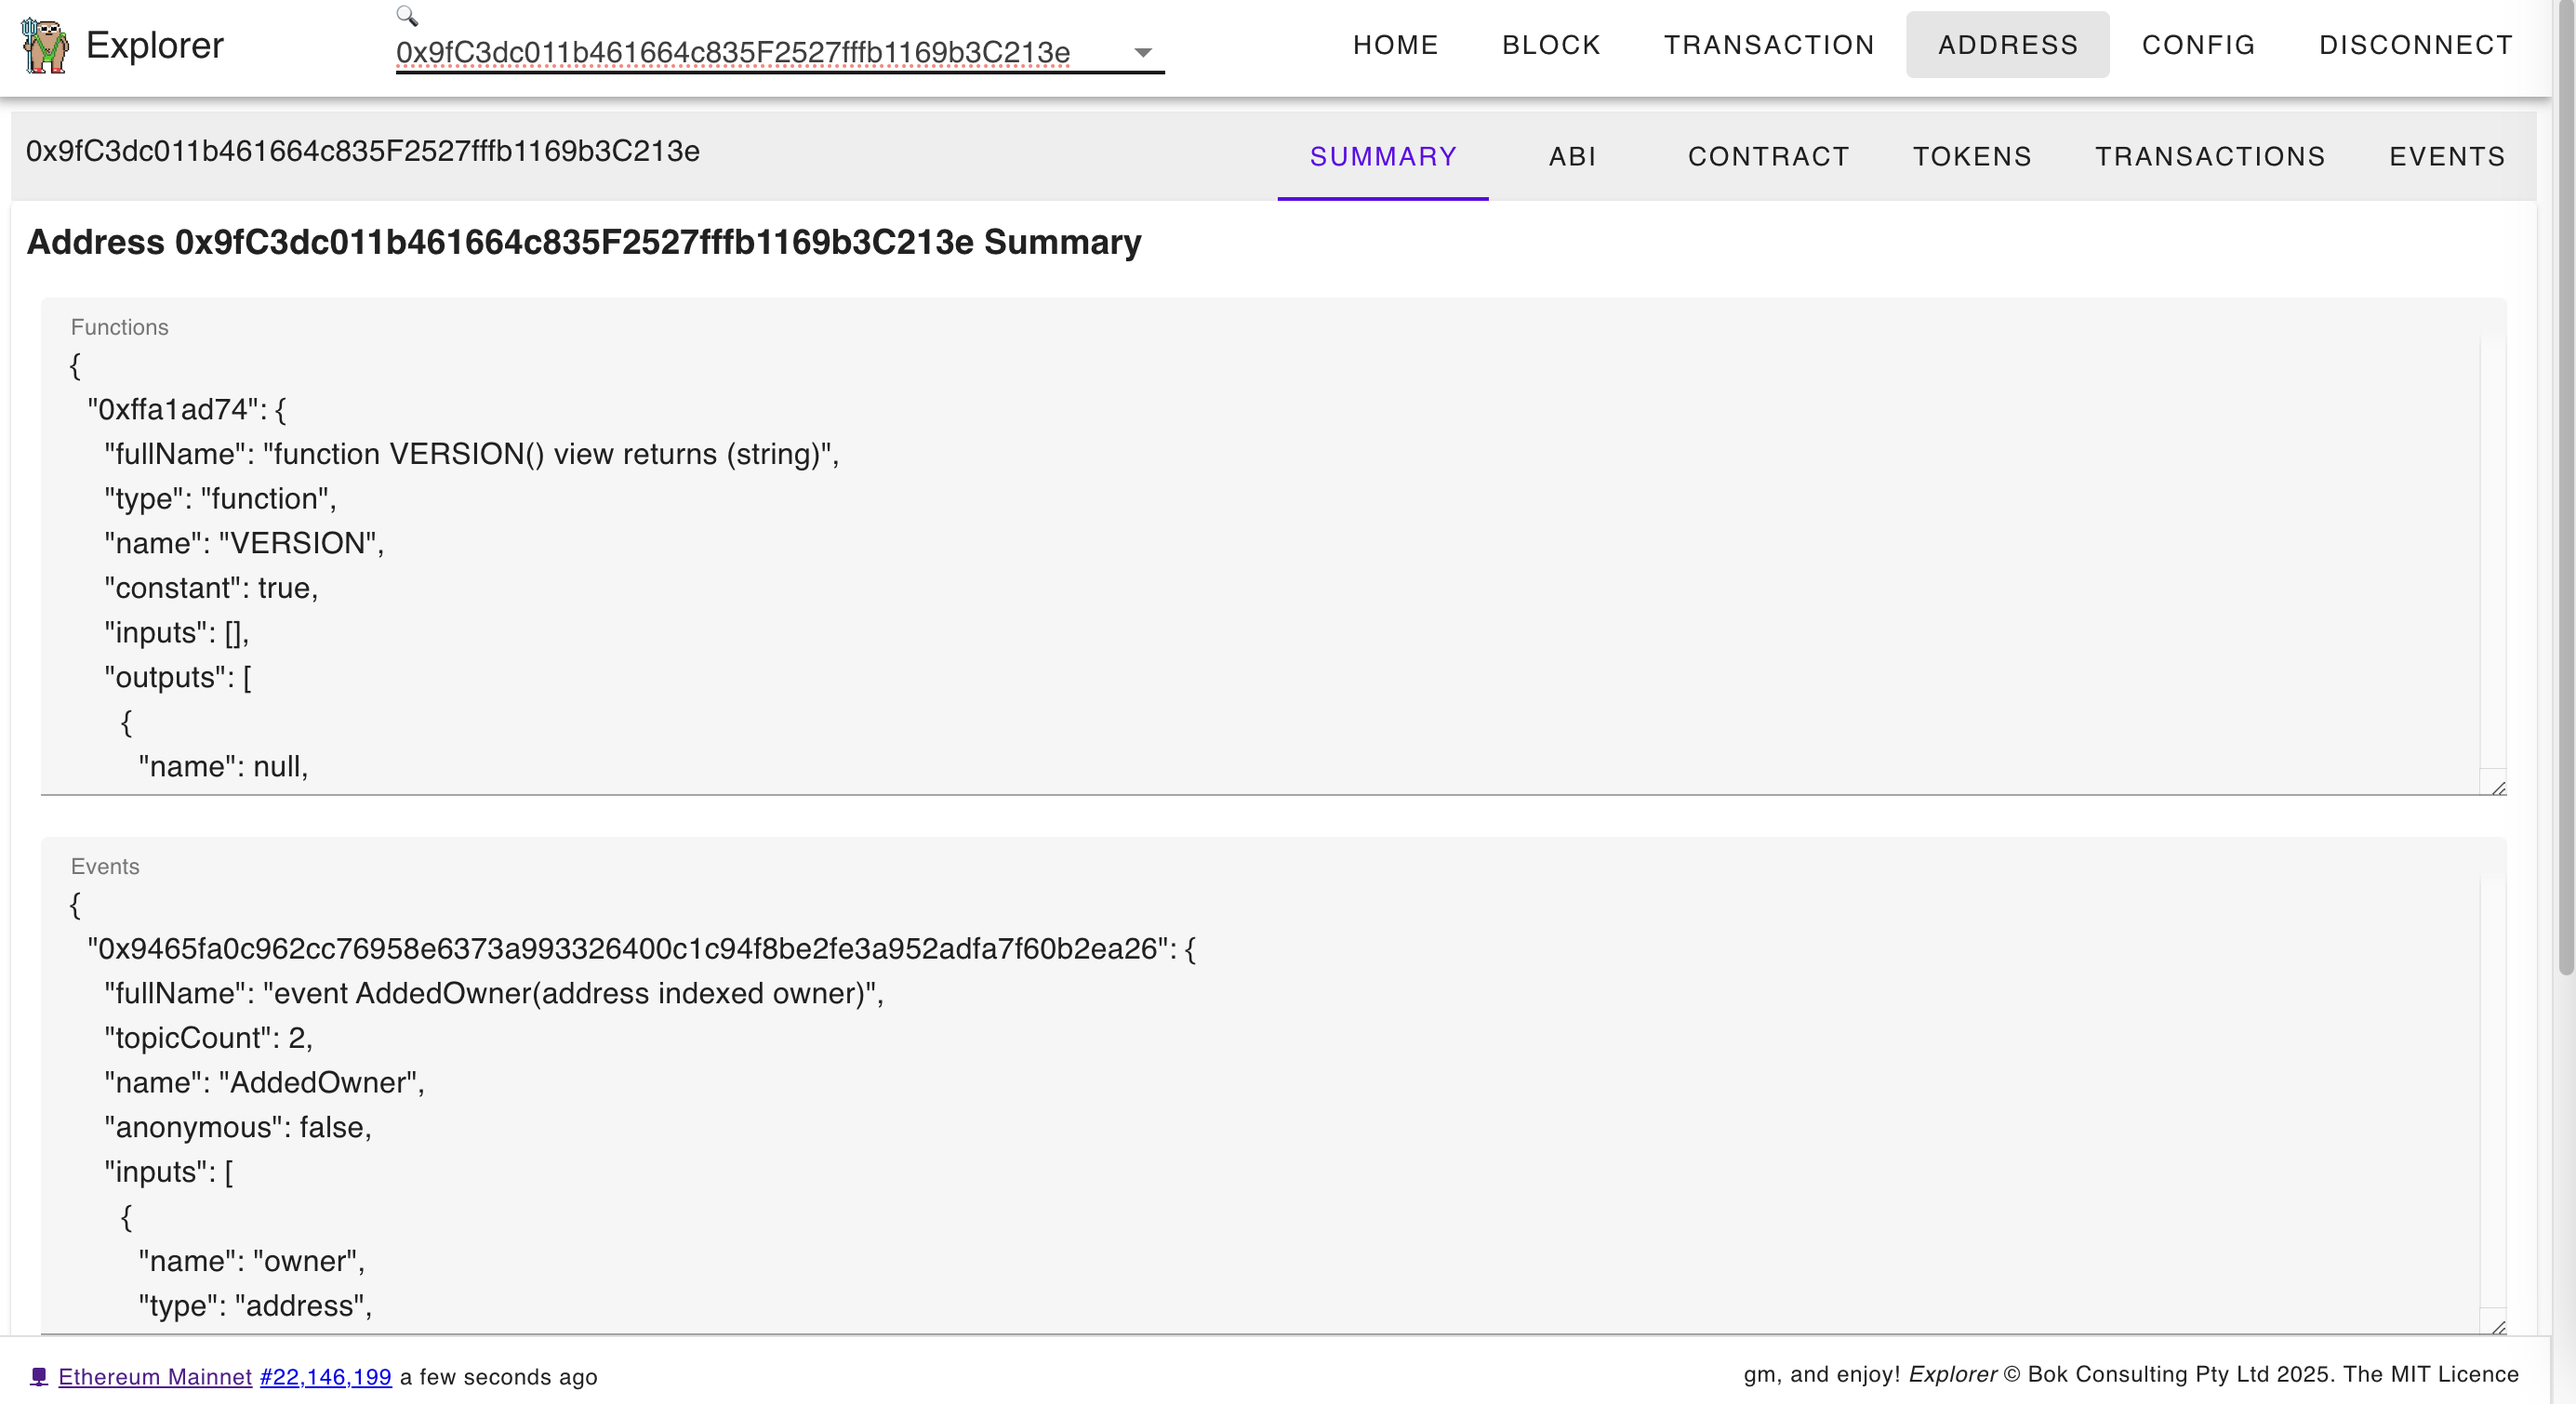
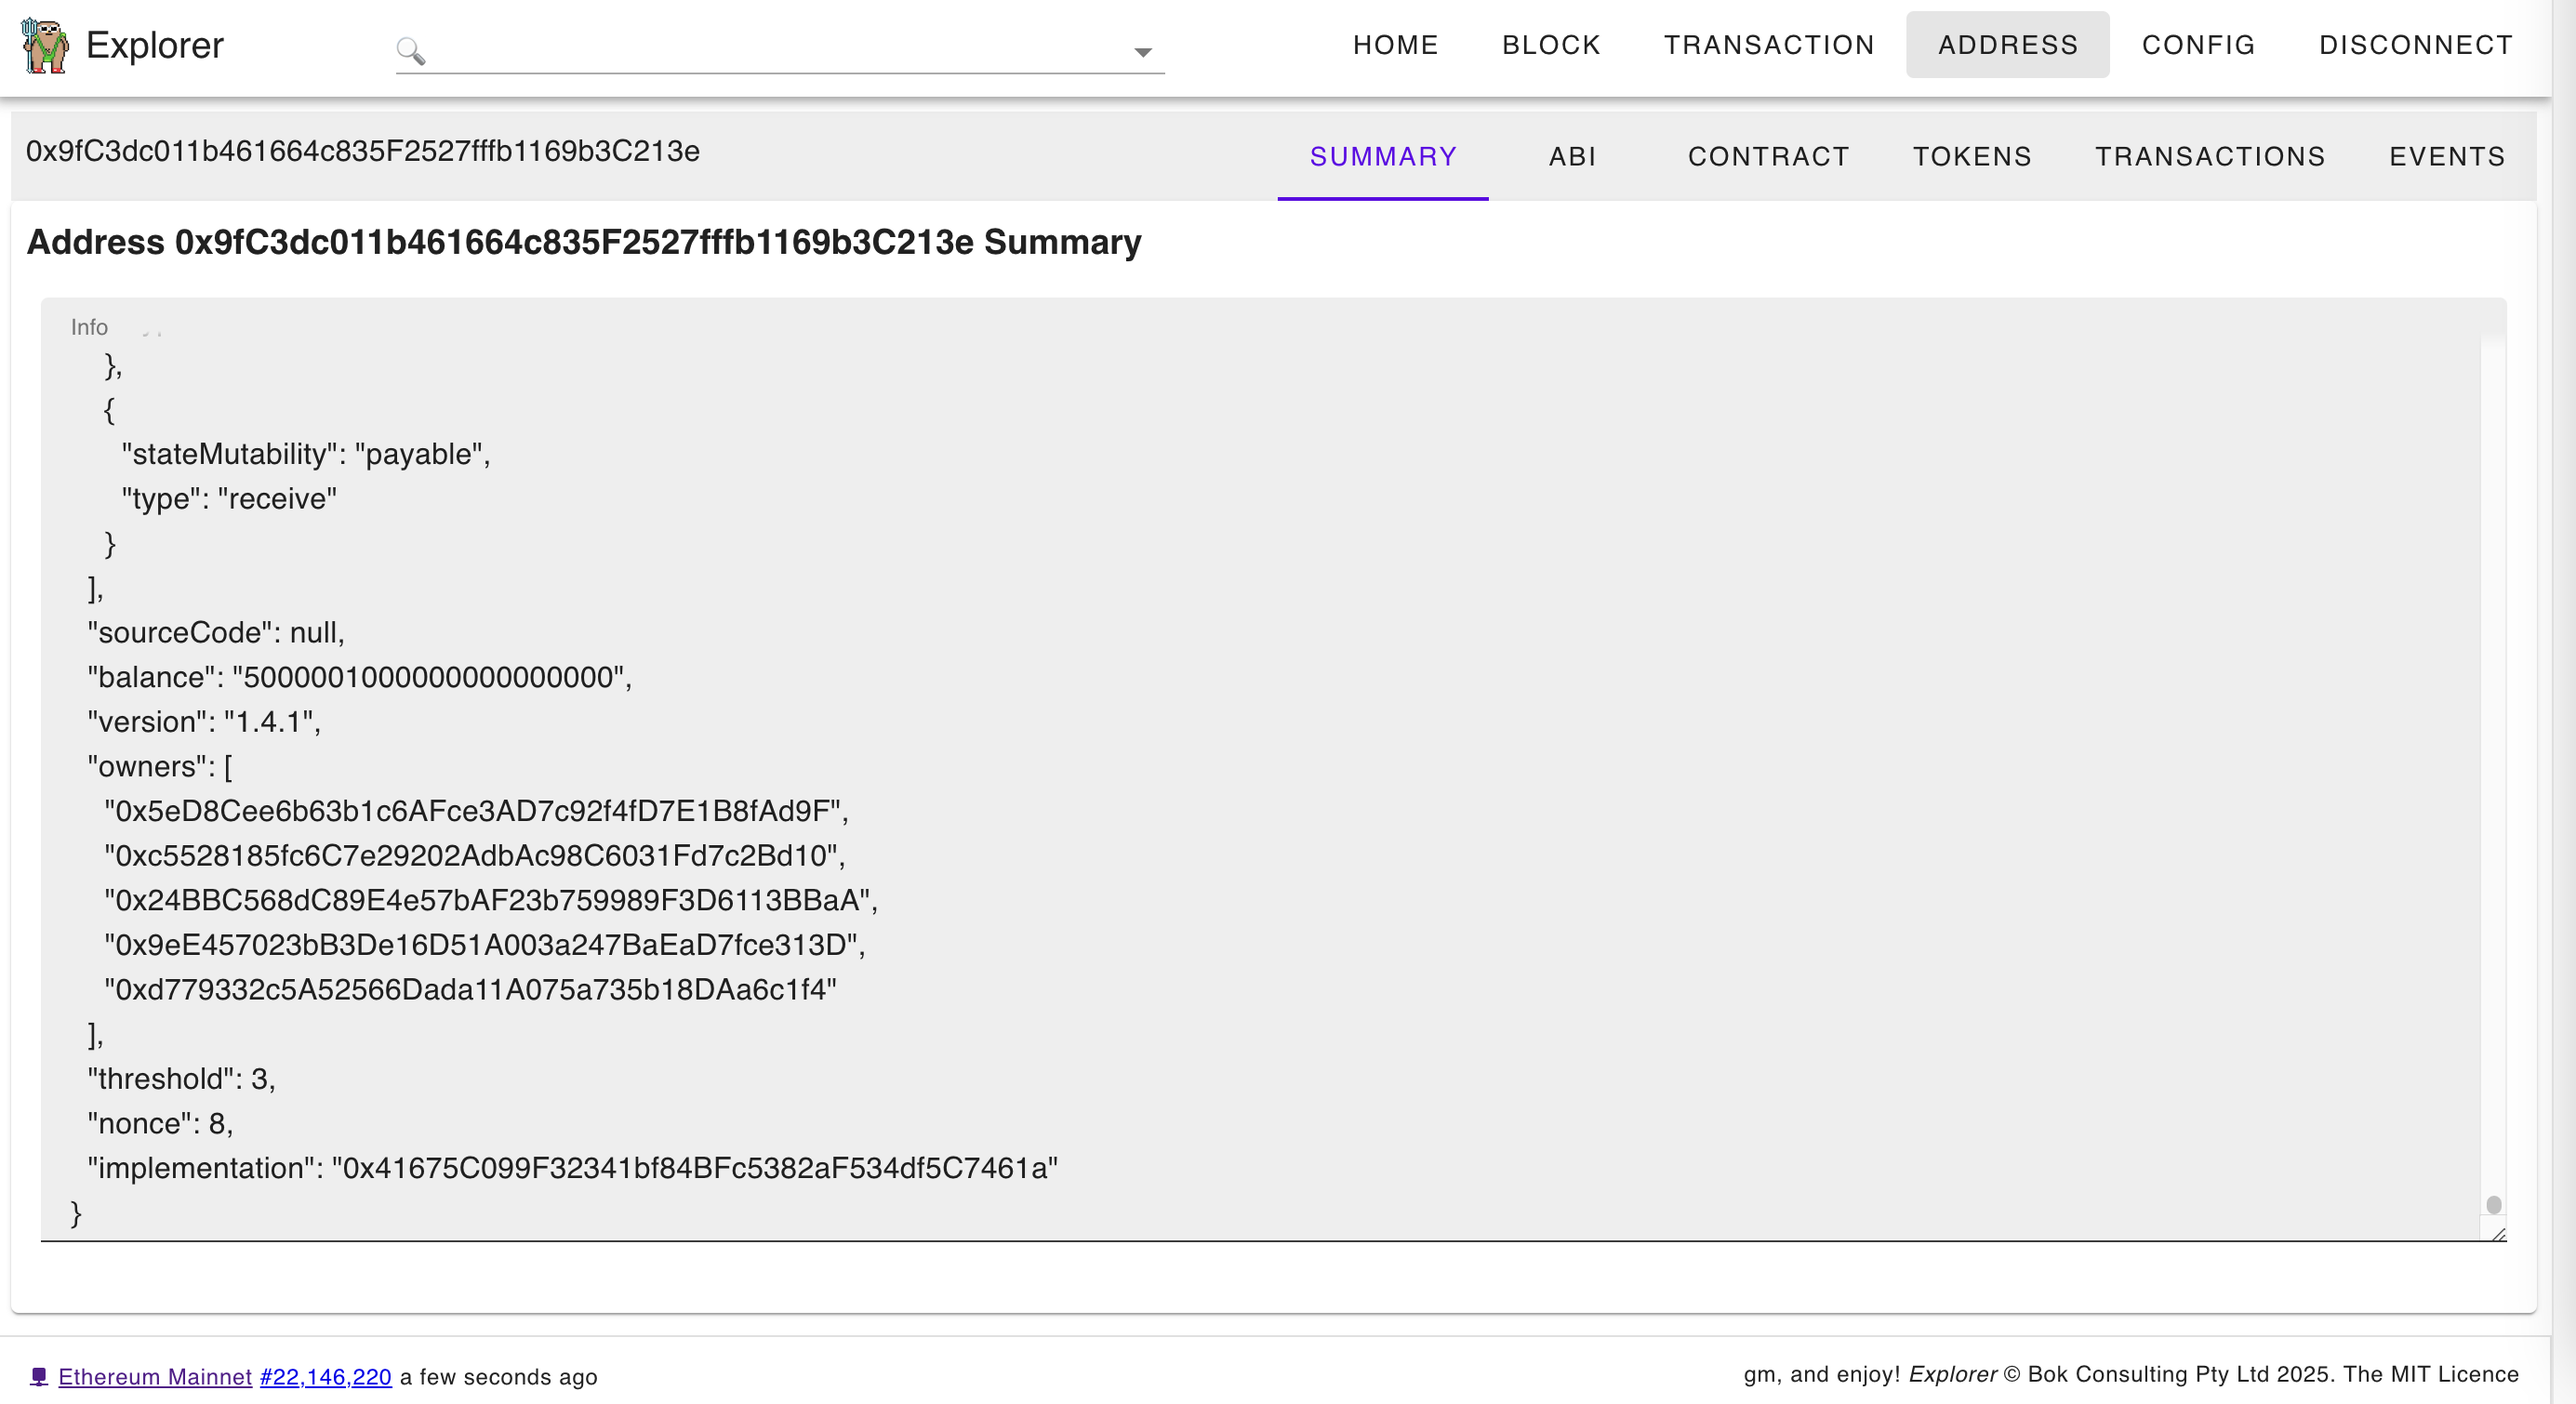
tidy

diff --git a/docs/address.js b/docs/address.js
@@ -4,11 +4,11 @@ const Address = {
       <v-card>
         <h3 class="ms-2 mt-2">Address {{ inputAddress }} Summary</h3>
         <v-card-text>
-          <v-textarea :model-value="JSON.stringify(functions, null, 2)" label="Functions" rows="10">
+          <!-- <v-textarea :model-value="JSON.stringify(functions, null, 2)" label="Functions" rows="10">
           </v-textarea>
           <v-textarea :model-value="JSON.stringify(events, null, 2)" label="Events" rows="10">
-          </v-textarea>
-          <v-textarea :model-value="JSON.stringify(info, null, 2)" label="Info" rows="10">
+          </v-textarea> -->
+          <v-textarea :model-value="JSON.stringify(info, null, 2)" label="Info" rows="20">
           </v-textarea>
           <!-- info: {{ info }}
           <br />
